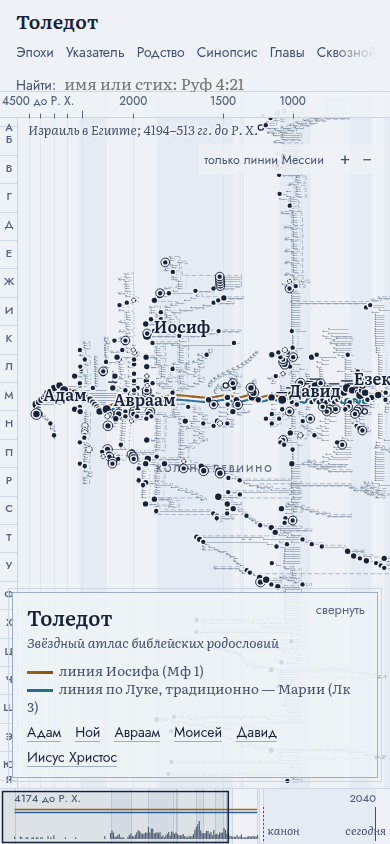
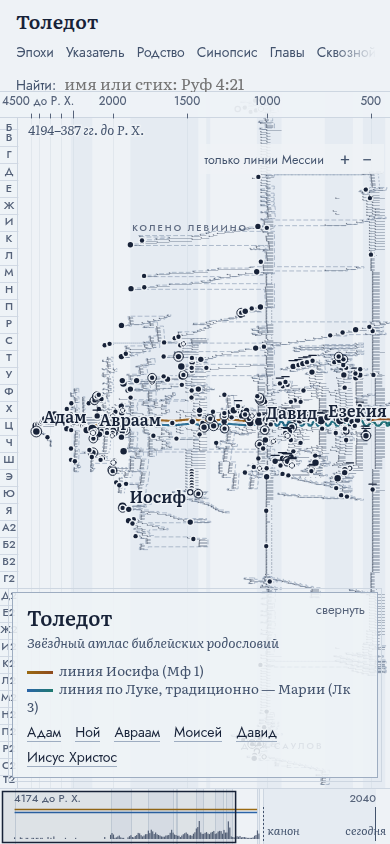
Overview screenshots and layout report with 2 580 persons
Claude-Session: https://claude.ai/code/session_01EUxWQ9pGZnxQRHBbeDnGCg

diff --git a/docs/coverage-20.md b/docs/coverage-20.md
@@ -1,0 +1,38 @@
+# Покрытие родословных отрывков
+
+Имя собственное считается сопоставленным, если оно совпадает с именем или иной формой лица, у которого есть ссылка на эту главу.
+Итого: 76% имён сопоставлено (687 из 901).
+
+
+## 1Пар 9:1-44 — 83% (124 из 149; тома 20, 10)
+
+Без лица: Так (9:1); Первые (9:2); Иудиных (9:3); Вениаминовых (9:3, 9:7); Ефремовых (9:3); Манассииных (9:3); Иудина (9:4); Мераиофа (9:11); Ахитува (9:11); Божием (9:11, 9:13); Мерариных (9:14); Нетофафских (9:16); Левииных (9:18); Елеазаров (9:20); Их (9:22); Давид (9:22); Господня (9:23); Вокруг (9:27); Одни (9:28); Другим (9:29); Некоторым (9:32); Каафовых (9:32); Певцы (9:33)
+
+## Езд 2:1-63 — 41% (51 из 123; тома 20)
+
+Без лица: Навуходоносор (2:1); Число (2:2); Закхая (2:9); Иоры (2:18); Гиббара (2:20); Нетофы (2:22); Азмавефа (2:24); Кефиры (2:25); Беерофа (2:25); Михмаса (2:27); Гая (2:28); Магбиша (2:30); Лидды (2:33); Хадида (2:33); Иерихона (2:34); Сенаи (2:35); Священников (2:36); Шаллума (2:42); Хатиты (2:42); Шовая (2:42); Нефинеев (2:43); Хасуфы (2:43); Таббаофа (2:43); Кероса (2:44); Сиаги (2:44); Фадона (2:44); Лебаны (2:45); Хагабы (2:45); Хагава (2:46); Шамлая (2:46); Ханана (2:46); Гиддела (2:47, 2:56); Гахара (2:47); Реаии (2:47); Рецина (2:48); Некоды (2:48, 2:60); Газзама (2:48); Уззы (2:49); Бесая (2:49); Асны (2:50); Меунима (2:50); Нефисима (2:50); Бакбука (2:51); Хакуфы (2:51); Хархура (2:51); Бацлуфа (2:52); Мехиды (2:52); Харши (2:52); Баркоса (2:53); Сисры (2:53); Фамаха (2:53); Нециаха (2:54); Хатифы (2:54); Соломоновых (2:55, 2:58); Сотая (2:55); Гассоферефа (2:55); Феруды (2:55); Иаалы (2:56); Даркона (2:56); Сефатии (2:57); Хаттила (2:57); Похереф-Гаццебайима (2:57); Амия (2:57); Тел-Мелаха (2:59); Тел-Харши (2:59); Херуб-Аддан (2:59); Делайи (2:60); Товии (2:60); Хабайи (2:61)
+
+## Езд 8:1-20 — 86% (56 из 65; тома 20)
+
+Без лица: Артаксеркса (8:1); Давида (8:2); Агаву (8:15); Левия (8:15); Касифье (8:17, 8:17); Левиина (8:18); Мерариных (8:19); Давид (8:20)
+
+## Езд 10:18-44 — 99% (127 из 128; тома 20)
+
+Без лица: Иоседекова (10:18)
+
+## Неем 3:1-32 — 64% (74 из 115; тома 20)
+
+Без лица: Овечьи (3:1); Меа (3:1); Иерихонцы (3:2); Ворота (3:3, 3:13, 3:15); Рыбные (3:3); Сенаи (3:3); Подле (3:4, 3:7, 3:8); Старые (3:6); Мелатия (3:7); Иадон (3:7); Меронофа (3:7); Мицфы (3:7, 3:15, 3:19); Печную (3:11); Долины (3:13); Заноаха (3:13); Навозных (3:13); Навозные (3:14); Бефкаремского (3:14); Источника (3:15); Селах (3:15); Давидова (3:15); Давидовых (3:16); Вениамин (3:23); Нефинеи (3:26); Офеле (3:26); Водяных (3:26); Офела (3:27); Далее (3:28); Конских (3:28); Иммера (3:29); Гаммифкад (3:31); Овечьих (3:32)
+
+## Неем 10:1-27 — 93% (80 из 86; тома 20)
+
+Без лица: Приложившие (10:1); Меремоф (10:5); Даниил (10:6); Клита (10:10); Шеревия (10:12); Главы (10:14)
+
+## Неем 11:1-36 — 54% (66 из 123; тома 20)
+
+Без лица: Соломоновых (11:3); Вениамина (11:4, 11:7, 11:36); Иахин (11:10); Хелкии (11:11); Садока (11:11); Мераиофа (11:11); Ахитува (11:11); Божием (11:11, 11:12, 11:22); Иерохама (11:12); Пашхура (11:12); Малхии (11:12); Мешиллемофа (11:13); Иммера (11:13); Начальником (11:14, 11:22); Хашшува (11:15); Азрикама (11:15); Михи (11:17, 11:22); Завдия (11:17); Асафа (11:17); Бакбукия (11:17); Шаммуя (11:17); Галала (11:17); Аккув (11:19); Талмон (11:19); Прочие (11:20); Офеле (11:21); Асафовых (11:22); Дивоне (11:25); Иекавцеиле (11:25); Иешуе (11:26); Беф-Палете (11:26); Хацар-Шуале (11:27); Вирсавии (11:27, 11:30); Мехоне (11:28); Цоре (11:29); Иармуфе (11:29); Заноахе (11:30); Лахисе (11:30); Азеке (11:30); Енномовой (11:30); Вениаминовы (11:31); Михмасе (11:31); Гае (11:31); Нове (11:32); Анании (11:32); Гацоре (11:33); Гиффаиме (11:33); Хадиде (11:34); Неваллате (11:34); Харашиме (11:35)
+
+## Неем 12:1-26 — 97% (109 из 112; тома 08, 20)
+
+Без лица: Персидского (12:22); Левия (12:23); Главы (12:24)
+

diff --git a/docs/layout-report.md b/docs/layout-report.md
@@ -1,18 +1,18 @@
 # Отчёт сборки данных
 
-Лиц: 2283; томов: 20; процитированных стихов: 12443.
+Лиц: 2580; томов: 20; процитированных стихов: 12499.
 
 ## Модель mt-long
 
 ```
 {
- "persons": 2283,
- "lanes": 495,
+ "persons": 2580,
+ "lanes": 487,
  "corridorWidth": 13,
  "crossings": 472,
  "corridorCrossings": 67,
- "dropLength": 5192,
- "blocks": 836
+ "dropLength": 5274,
+ "blocks": 1053
 }
 ```
 
@@ -22,13 +22,13 @@
 
 ```
 {
- "persons": 2283,
- "lanes": 493,
+ "persons": 2580,
+ "lanes": 489,
  "corridorWidth": 13,
  "crossings": 523,
  "corridorCrossings": 78,
- "dropLength": 5380,
- "blocks": 836
+ "dropLength": 5462,
+ "blocks": 1053
 }
 ```
 
@@ -38,13 +38,13 @@
 
 ```
 {
- "persons": 2283,
- "lanes": 492,
+ "persons": 2580,
+ "lanes": 490,
  "corridorWidth": 11,
- "crossings": 462,
+ "crossings": 460,
  "corridorCrossings": 45,
- "dropLength": 5197,
- "blocks": 836
+ "dropLength": 5279,
+ "blocks": 1053
 }
 ```
 
@@ -54,13 +54,13 @@
 
 ```
 {
- "persons": 2283,
- "lanes": 495,
+ "persons": 2580,
+ "lanes": 487,
  "corridorWidth": 15,
  "crossings": 465,
  "corridorCrossings": 77,
- "dropLength": 5192,
- "blocks": 836
+ "dropLength": 5274,
+ "blocks": 1053
 }
 ```
 
